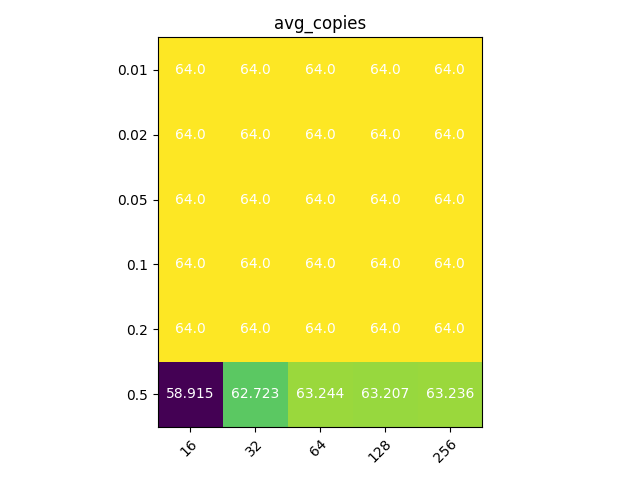
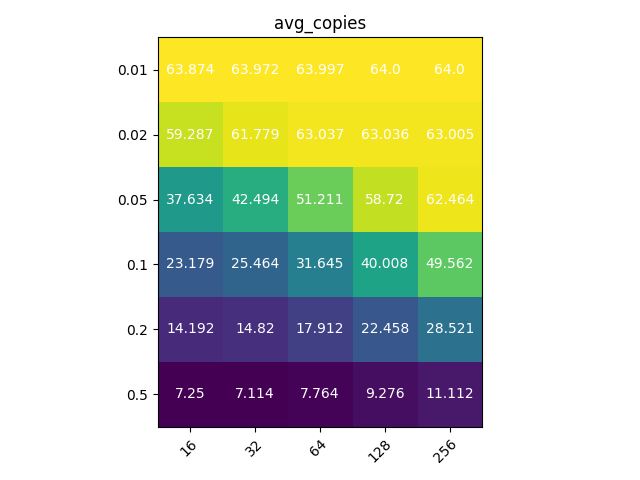
fixed lab_d

diff --git a/lab_d/src/page_allocation.rs b/lab_d/src/page_allocation.rs
@@ -38,8 +38,7 @@ enum Request {
 }
 
 fn init_processors() -> [Processor; NUM_OF_PROCESSORS] {
-    let mut processors = 
-        [Processor::new_empty(); NUM_OF_PROCESSORS];
+    let mut processors: [Processor; 64] = [Processor::new_empty(); 64];
     processors[0] = Processor::new_full();
     processors
 }
@@ -64,7 +63,7 @@ pub fn page_allocation(d: u128, p: f64) -> (f64, f64) {
     let mut processors = init_processors();
 
     // 1. While c < D, if a read is initiated by p, or if a write is initiated by p, and
-    // Count is waiting, increase e by 1.
+    // Count is waiting, increase c by 1.
     // 2. Replicate a copy of the file to p.
     // 3. While c > 0, if a write is initiated by any other processor, decrease c by 1.
     // 4. If p holds the last copy of the file, wait until it is replicated by some other
@@ -77,55 +76,66 @@ pub fn page_allocation(d: u128, p: f64) -> (f64, f64) {
         let request = rand_request(&rand, p);
         let state = processors[pid].state;
 
-        match (request, state) {
-            (Request::Read, ProcessorState::Increase) => {
-                // reading cost
-                total_cost += 1;
-                processors[pid].count += 1;
-
-                if processors[pid].count == d {
-                    // copying cost
-                    total_cost += d;
-                    
-                    curr_copies += 1;
-                    max_copies = max_copies.max(curr_copies);
-                    processors[pid].state = ProcessorState::Decrease;
-                }
-            },
-            (Request::Write, ProcessorState::Increase) => {
-                // writing cost
-                total_cost += curr_copies;
-
-                if curr_copies == 1 {
+        match request {
+            Request::Read => {
+                match state {
+                    ProcessorState::Increase => {
+                    // reading cost
+                    total_cost += 1;
                     processors[pid].count += 1;
-                }
-                
-                if processors[pid].count == d {
-                    // copying cost
-                    total_cost += d;
-                    curr_copies += 1;
-                    max_copies = max_copies.max(curr_copies);
-                    processors[pid].state = ProcessorState::Decrease;
-                }
-            },
-            (Request::Write, ProcessorState::Decrease) => {
-                // writing cost
-                total_cost += curr_copies - 1;
-                
-                processors[pid].count -= 1;
 
-                if processors[pid].count == 0 {
-                    processors[pid].state = ProcessorState::Hold;
+                    if processors[pid].count == d {
+                        // copying cost
+                        total_cost += d;
+                        
+                        curr_copies += 1;
+                        max_copies = max_copies.max(curr_copies);
+                        processors[pid].state = ProcessorState::Decrease;
+                    }
+                },
+                _ => ()
+            }
+        },
+            Request::Write => {
+                for i in 0..64 {
+                    if processors[i].state == ProcessorState::Decrease && i != pid {
+                        // writing cost
+                        total_cost += curr_copies - 1;
+                                            
+                        processors[i].count -= 1;
+
+                        if processors[i].count == 0 {
+                            processors[i].state = ProcessorState::Hold;
+                        }
+                    }
                 }
-            },
-            (Request::Write, ProcessorState::Hold) => {
-                // writing cost
-                total_cost += curr_copies - 1;
-            },
-            _ => ()
+
+                match state {
+                    ProcessorState::Increase => {
+                        // writing cost
+                        total_cost += curr_copies;
+
+                        if curr_copies == 1 {
+                            processors[pid].count += 1;
+                        }
+                        
+                        if processors[pid].count == d {
+                            // copying cost
+                            total_cost += d;
+                            curr_copies += 1;
+                            max_copies = max_copies.max(curr_copies);
+                            processors[pid].state = ProcessorState::Decrease;
+                        }
+                    },
+                    _ => {
+                        // writing cost
+                        total_cost += curr_copies - 1;
+                    }
+                }
+            }
         }
 
-        if curr_copies > 1 {
+        if curr_copies > 1 {    
             for processor in processors.iter_mut() {
                 if processor.state == ProcessorState::Hold {
                     curr_copies -= 1;
